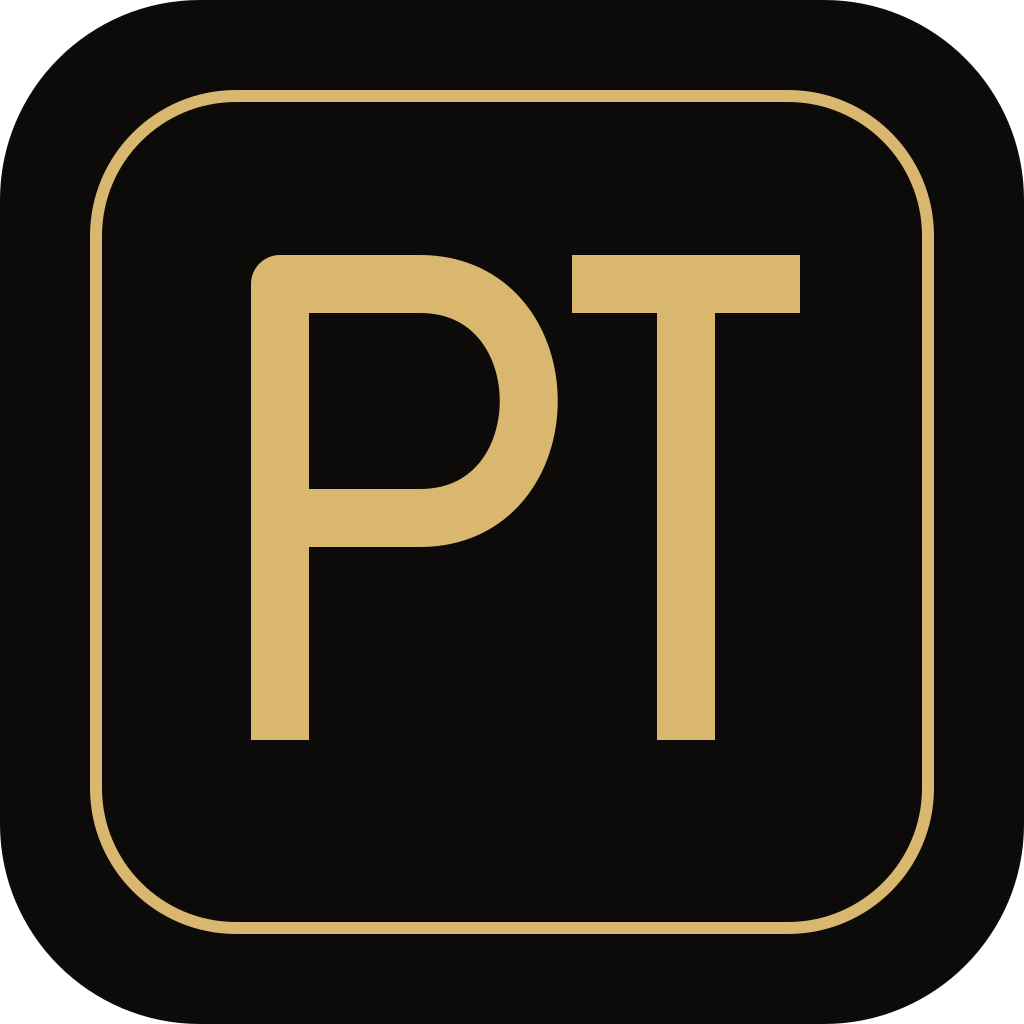
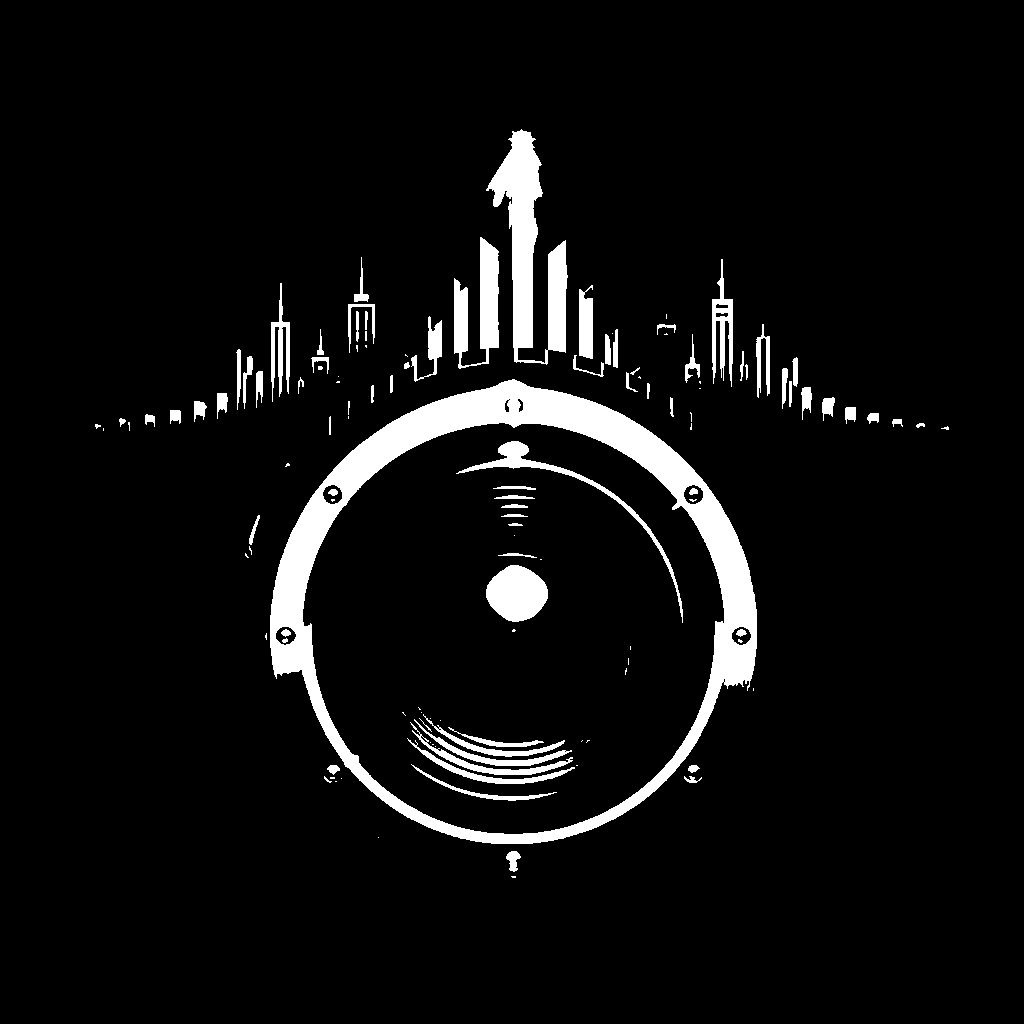
Replace launcher assets with PTown speaker branding

diff --git a/README.md b/README.md
@@ -1,9 +1,14 @@
 # PTown Access
 
-Build 14 of PTown Dinner Club’s app for Paducah, Kentucky. React Native,
+Build 15 of PTown Dinner Club’s app for Paducah, Kentucky. React Native,
 Expo SDK 57, TypeScript, and Expo Router. Black, warm cream, and gold.
 
 ## Included
+
+- Approved launcher artwork built from the official PTown Dinner Club logo’s
+  center speaker and skyline, with coordinated iOS, Android adaptive,
+  monochrome, web favicon, and full-logo splash assets. The underlying official
+  logo remains unchanged.
 
 - Reviewed invitation text can be handed to supported web/native sharing tools
   only on explicit action. Unsupported browsers retain copy/manual fallbacks;
@@ -210,12 +215,13 @@ src/state/           Versioned device preview storage and actions
 src/utils/           Local-date weekday calculation and preview summary formatting
 src/types/           Shared content types
 src/services/        Reserved for later approved integrations
-assets/              Temporary PT monogram launcher assets
+assets/              Approved PTown launcher, splash, favicon, and brand logo assets
 ```
 
 ## Next implementation priorities
 
-1. Replace temporary launcher assets with the approved PTown logo and icons.
+1. Build the PTown Media Group foundation: its divisions, editorial standards,
+   programming, training-to-job pathway, distribution, and protected investor path.
 2. Confirm real event dates, artists, pricing, food inclusions, and policies.
 3. Test on physical iPhone, Android, and tablet devices; review large text and
    assistive technology behavior, native clipboard, and native share-sheet completion
@@ -243,13 +249,12 @@ Dinner-note tests verify persistence, editing/removal, summary and backup conten
 independent-device transfers, older drafts, maximum length, invalid-note rejection,
 failed writes, and phone layouts.
 
-## Build 14 completion
+## Build 15 completion
 
-The app foundation, event and creative discovery, plan review, navigation, and device planning flows are implemented. TypeScript checks,
+The app foundation, event and creative discovery, plan review, navigation, device planning flows, and approved launcher branding are implemented. TypeScript checks,
 Expo dependency checks, web/iOS/Android exports, and Chromium navigation
 and saved-plan checks passed during development. Screens were visually reviewed at phone
-and desktop widths. Physical-device testing and replacement of the temporary
-launcher monogram with approved artwork remain release tasks.
+and desktop widths. Physical-device testing remains a release task.
 
 The preview uses static Expo web output hosted privately. The hosting identity
 is retained in `.openai/hosting.json`; runtime accounts, booking services, and
